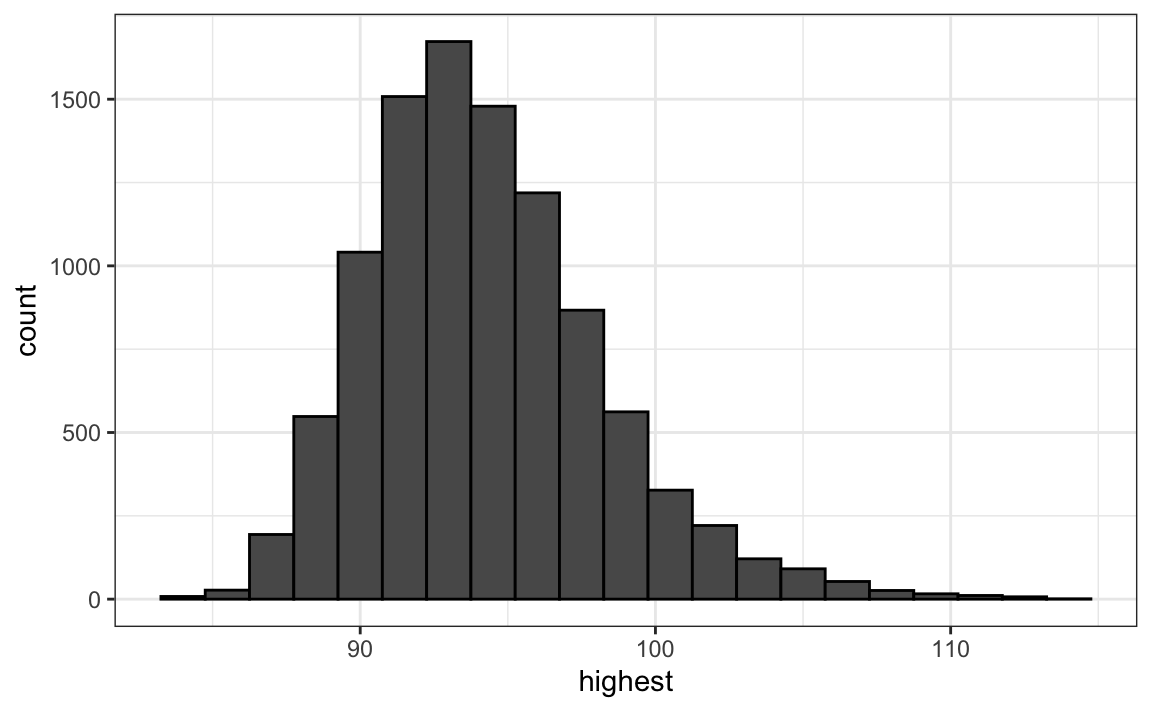
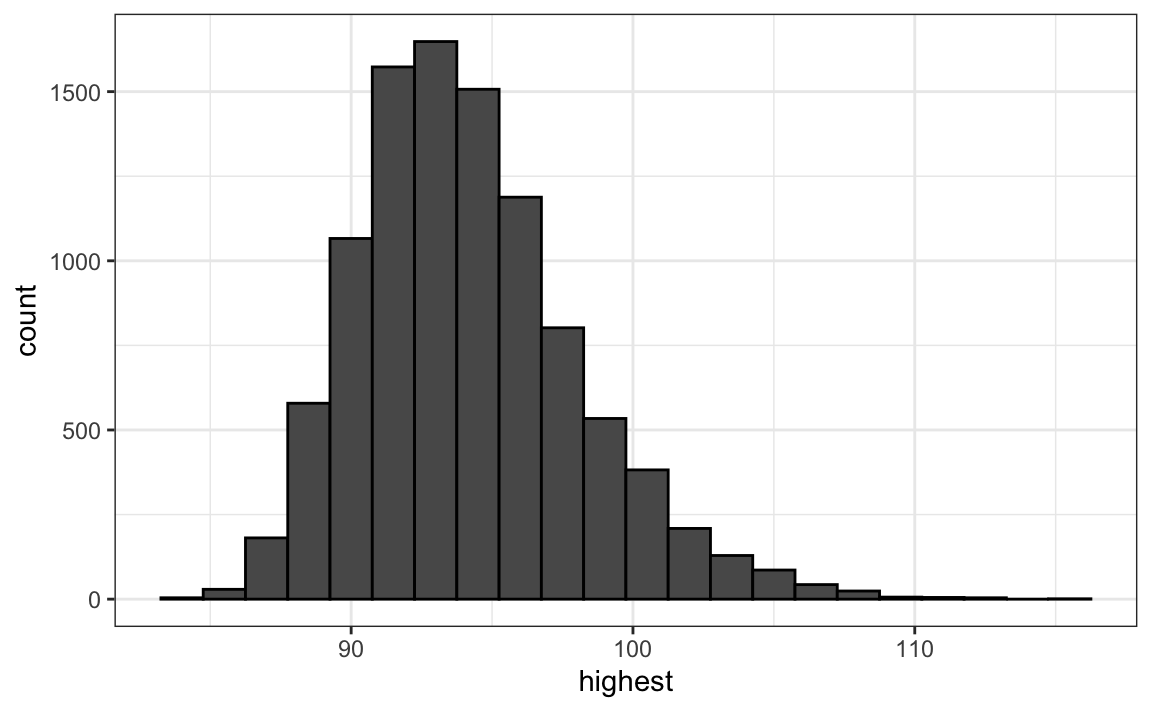
Re-render

diff --git a/docs/prob/continuous-probability.html b/docs/prob/continuous-probability.html
@@ -485,7 +485,7 @@ f(x) = \frac{1}{\sqrt{2\pi}\,\sigma} \exp\left(-\frac{1}{2}\left(\frac{x - \mu}{
 <p>Reaching the maximum is quite rare:</p>
 <div class="cell" data-layout-align="center">
 <div class="sourceCode cell-code" id="cb8"><pre class="sourceCode r code-with-copy"><code class="sourceCode r"><span id="cb8-1"><a href="#cb8-1" aria-hidden="true" tabindex="-1"></a><span class="fu">mean</span>(highest <span class="sc">&gt;=</span> <span class="dv">100</span>)</span>
-<span id="cb8-2"><a href="#cb8-2" aria-hidden="true" tabindex="-1"></a><span class="co">#&gt; [1] 0.0811</span></span></code><button title="Copy to Clipboard" class="code-copy-button"><i class="bi"></i></button></pre></div>
+<span id="cb8-2"><a href="#cb8-2" aria-hidden="true" tabindex="-1"></a><span class="co">#&gt; [1] 0.082</span></span></code><button title="Copy to Clipboard" class="code-copy-button"><i class="bi"></i></button></pre></div>
 </div>
 <p>Here is the resulting distribution of the highest score:</p>
 <div class="cell" data-layout-align="center">
@@ -497,6 +497,7 @@ f(x) = \frac{1}{\sqrt{2\pi}\,\sigma} \exp\left(-\frac{1}{2}\left(\frac{x - \mu}{
 </div>
 </div>
 </div>
+<p>Notice that some of the simulated maxima are above 100, a score that cannot occur: the normal distribution extends without limit in both directions, while the questionnaire stops at 100. This is a reminder that the normal is an approximation, and that it is least trustworthy in the tails, which is exactly where questions about extreme values take us.</p>
 <p>Although deriving this distribution analytically is possible, it is not straightforward. Once derived, it provides a faster way to evaluate probabilities than simulation. However, when analytic derivations are too complex or infeasible, Monte Carlo simulation offers a practical alternative. By repeatedly generating random samples, we can approximate the distribution of almost any statistic and obtain reliable estimates even when theoretical results are unavailable.</p>
 </section>
 </section>
